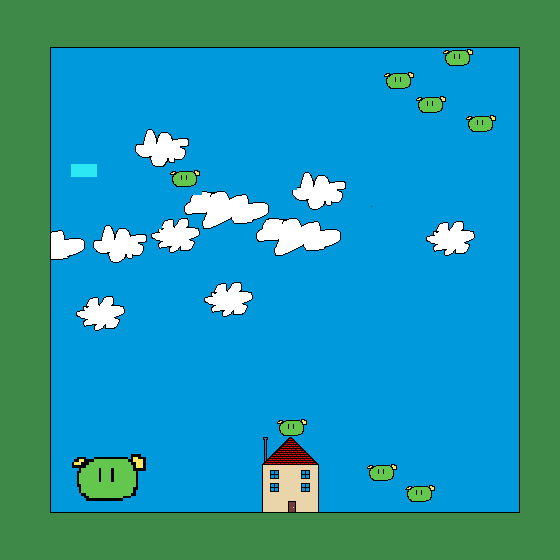
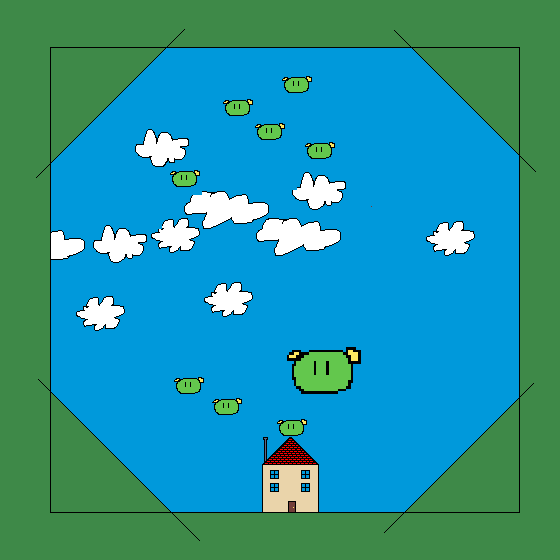
delcare

diff --git a/src/Board.java b/src/Board.java
@@ -4,6 +4,19 @@ import java.awt.event.*;
 import java.util.ArrayList;
 //import java.util.Random;
 import javax.swing.*;
+import java.awt.geom.AffineTransform;
+import java.awt.event.KeyEvent;
+import java.awt.Graphics;
+import java.awt.image.BufferedImage;
+import java.awt.image.ImageObserver;
+import java.awt.Point;
+import java.awt.Polygon;
+import java.io.File;
+import java.io.IOException;
+import javax.imageio.ImageIO;
+import java.awt.geom.AffineTransform;
+
+import java.awt.image.AffineTransformOp;
 
 public class Board extends JPanel implements ActionListener, KeyListener {
 
@@ -34,6 +47,7 @@ public class Board extends JPanel implements ActionListener, KeyListener {
     private boolean downPressed = false;
     private boolean spacePressed = false;
     
+    private int rotation;
     
     private Side[] sides;
     
@@ -51,6 +65,7 @@ public class Board extends JPanel implements ActionListener, KeyListener {
 
         
         sides = new Side[4];
+        rotation = 0;
         
         
         // this timer will call the actionPerformed() method every DELAY ms
@@ -121,9 +136,15 @@ public class Board extends JPanel implements ActionListener, KeyListener {
     			//affineTransform.rotate(Math.toRadians(angle), m_imageWidth/2, m_imageHeight/2); 
     			//obstacles1[2] = new Obstacle(new Point.Double(120,680), 1, "background.png", new Model(new int[]{0,800,0,800}, new int[]{0,0,120,120}));
     			
-    			Obstacle[] obstacles1 = new Obstacle[2];
-    			obstacles1[0] = new Obstacle(new Point.Double(400,200), 1, "idlePlayer.png", new Model(new int[]{400,410,410,400}, new int[]{200,200,210,210}));
-    			obstacles1[1] = new Obstacle(new Point.Double(400,150), 1, "coin.png", new Model(new int[]{400,410,410,400}, new int[]{150,150,160,160}));
+    			Obstacle[] obstacles1 = new Obstacle[1];
+//    			obstacles1[0] = new Obstacle(new Point.Double(400,200), 1, "idlePlayer.png", new Model(new int[]{400,410,410,400}, new int[]{200,200,210,210}));
+//    			obstacles1[1] = new Obstacle(new Point.Double(400,150), 1, "coin.png", new Model(new int[]{400,410,410,400}, new int[]{150,150,160,160}));
+    			
+    			Polygon[] polygons = new Polygon[1];
+    			polygons[0] = new Polygon(new int[] {0,50,170,405,520,560,560,0}, new int[] {390,390,513,513,400,400,560,560}, 8);
+    			
+    			obstacles1[0] = new Obstacle(new Point.Double(1,1), 1, "blank.png", new Model(polygons));
+    			
     			sides[0] = new Side(obstacles1, 0);
     	        
     	        Obstacle[] obstacles2 = new Obstacle[0];
@@ -203,6 +224,44 @@ public class Board extends JPanel implements ActionListener, KeyListener {
         	
         } else {
         
+        	if (levelNumber==1) {
+        		BufferedImage img;
+        		try {
+					img = ImageIO.read(new File("images/FINALlevelOneBackground.png"));
+					rotation++;
+					System.out.println("Rotation: " + rotation);
+//					final double rads = Math.toRadians(rotation);
+//	        		final double sin = Math.abs(Math.sin(rads));
+//	        		final double cos = Math.abs(Math.cos(rads));
+//	        		final int w = (int) Math.floor(image.getWidth() * cos + image.getHeight() * sin);
+//	        		final int h = (int) Math.floor(image.getHeight() * cos + image.getWidth() * sin);
+//	        		final BufferedImage rotatedImage = new BufferedImage(w, h, image.getType());
+//	        		final AffineTransform at = new AffineTransform();
+//	        		at.translate(w / 2, h / 2);
+//	        		at.rotate(rads,0, 0);
+//	        		at.translate(-image.getWidth() / 2, -image.getHeight() / 2);
+//	        		final AffineTransformOp rotateOp = new AffineTransformOp(at, AffineTransformOp.TYPE_BILINEAR);
+//	        		rotateOp.filter(image,rotatedImage);
+        			
+        			AffineTransform transform = new AffineTransform();
+        	        transform.rotate(Math.toRadians(rotation), img.getWidth() / 2, img.getHeight() / 2);
+        	        AffineTransformOp op = new AffineTransformOp(transform, AffineTransformOp.TYPE_BILINEAR);
+        	        img = op.filter(img, null);
+
+        	        g.drawImage(img, getX()+120, getY()+120, null);
+//	        		g.drawImage(
+//	        	            rotatedImage, 
+//	        	            (int)(60.0*Math.abs(Math.cos(rads/2))), // * Board.TILE_SIZE
+//	        	            0, // * Board.TILE_SIZE
+//	        	            this
+//	        	        ); 
+				} catch (IOException e) {
+					// TODO Auto-generated catch block
+					e.printStackTrace();
+				}
+            	
+        		
+        	
         	// draw our graphics.
         	player.draw(g, this, 0);
         	sides[0].draw(g, this);
@@ -230,6 +289,8 @@ public class Board extends JPanel implements ActionListener, KeyListener {
 
         	// this smooths out animations on some systems
         	Toolkit.getDefaultToolkit().sync();
+        	
+        	}
         }
     }
 
@@ -269,6 +330,8 @@ public class Board extends JPanel implements ActionListener, KeyListener {
     }
     
     private void tickAll() {
+    	
+    	
     	
     	sides[0].rotate(1);
     	

diff --git a/src/Model.java b/src/Model.java
@@ -35,24 +35,25 @@ public class Model {
 	
 	public void move (double x, double y, double rotation) { //assumes first corner in polygon is upper left hand corner of the image
 		
-		shapes[0].xpoints[0] = (int) x;
-		shapes[0].ypoints[0] = (int) y;
-		double cos = Math.cos(Math.toRadians(rotation));
-		double sin = Math.sin(Math.toRadians(rotation));
-		int originaly = originalShapes[0].ypoints[0];
-		int originalx = originalShapes[0].xpoints[0];
-		for (int j = 0; j < shapes.length; j++) {
-			for (int i = 1; i < originalShapes[j].xpoints.length; i++) {
-				double height = originalShapes[j].ypoints[i] - originaly;
-				double width = originalShapes[j].xpoints[i] - originalx;
-				double radius = Math.sqrt(height*height + width*width);
-//				System.out.println("radius: " + radius);
-				shapes[j].ypoints[i] = (int)(-height * cos + width * sin + y);
-				shapes[j].xpoints[i] = (int)(height * sin + width * cos + x);
-//				System.out.println(height * cos + width * sin + " + " + y);
-//				System.out.println(height * sin + width * cos + " + " + x);
-			}
-		}
+//		shapes[0].xpoints[0] = (int) x;
+//		shapes[0].ypoints[0] = (int) y;
+//		double cos = Math.cos(Math.toRadians(rotation));
+//		double sin = Math.sin(Math.toRadians(rotation));
+//		System.out.println(originalShapes[0].toString());
+//		int originaly = originalShapes[0].ypoints[0];
+//		int originalx = originalShapes[0].xpoints[0];
+//		for (int j = 0; j < shapes.length; j++) {
+//			for (int i = 1; i < originalShapes[j].xpoints.length; i++) {
+//				double height = originalShapes[j].ypoints[i] - originaly;
+//				double width = originalShapes[j].xpoints[i] - originalx;
+//				double radius = Math.sqrt(height*height + width*width);
+////				System.out.println("radius: " + radius);
+//				shapes[j].ypoints[i] = (int)(-height * cos + width * sin + y);
+//				shapes[j].xpoints[i] = (int)(height * sin + width * cos + x);
+////				System.out.println(height * cos + width * sin + " + " + y);
+////				System.out.println(height * sin + width * cos + " + " + x);
+//			}
+//		}
 	}
 	
 	public boolean collision (Model other) {
@@ -105,7 +106,7 @@ public class Model {
 	            y[0], 
 	            observer
 	    );
-		g.drawPolygon(shapes[0].xpoints, shapes[0].ypoints, 4);
+//		g.drawPolygon(shapes[0].xpoints, shapes[0].ypoints, 4);
 		
 		locations.add(new Point(x[0],y[0]));
 		int[] xtests = new int[locations.size()];
@@ -114,7 +115,7 @@ public class Model {
 			xtests[i] = locations.get(i).x;
 			ytests[i] = locations.get(i).y;
 		}
-		g.drawPolygon(xtests, ytests, xtests.length);
+//		g.drawPolygon(xtests, ytests, xtests.length);
 		
         } catch (IOException e) { e.printStackTrace(); } //System.out.println("Error opening image file: " + exc.getMessage()); };
 		

diff --git a/src/Player.java b/src/Player.java
@@ -49,7 +49,7 @@ public class Player extends Entity { ;
     
     public Player() {
     	
-    	super(new Point.Double(500,500), 1, "player.png", new Model(xvals, yvals), 0);
+    	super(new Point.Double(500,500), 1, "idlePlayer.png", new Model(xvals, yvals), 0);
 
         // initialize the state
         //score = 0;
